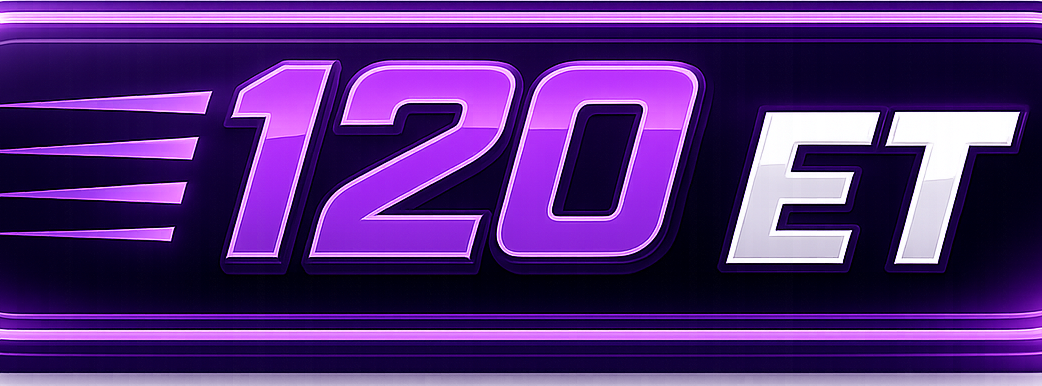
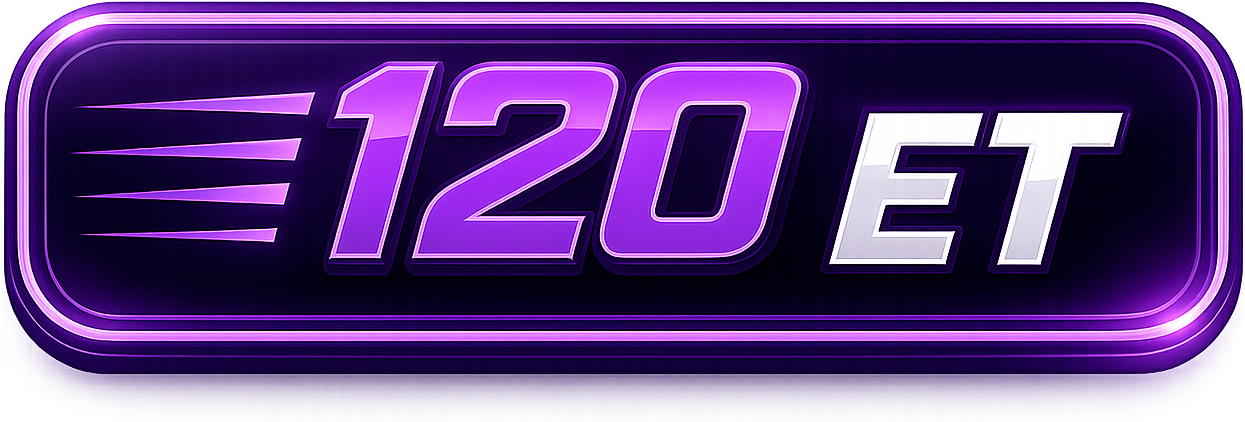
fix: restore and trim PEEK/ET120 images, adjust container sizes to match button height

diff --git a/app/(app)/shop/page.tsx b/app/(app)/shop/page.tsx
@@ -13,8 +13,8 @@ const SHOP_ITEMS = [
   { id: 'split', name: 'ספליט', description: 'לשימוש לפני המשחק – ניחוש 2 תוצאות', img: '/btn-split.png', stockKey: 'splitStock' as const, comingSoon: false, cost: 3 },
   { id: 'allin', name: 'ALL IN', description: 'לשימוש לפני המשחק – שים את הניקוד שלך בקופה משותפת. בעל הניקוד הגבוה ביותר זוכה בכל הקופה.', img: '/btn-allin.png', stockKey: 'allinStock' as const, comingSoon: false, cost: 1, imgClass: 'w-32 h-14', hidden: true },
   { id: 'double', name: 'דאבל', description: 'לשימוש לפני המשחק – שייך ל-2 משחקים שונים. אם שניהם מנוחשים נכון, תקבל בונוס נקודות על שניהם!', img: '/btn-double.png', stockKey: 'doubleStock' as const, comingSoon: true, cost: 3, imgClass: 'w-32 h-16', hidden: true },
-  { id: 'peek', name: 'PEEK', description: 'לשימוש לפני נעילת המשחק – ראה את ניחושי כל השחקנים ונשאר פתוח לניחוש 30 דקות נוספות', img: '/btn-peek.png', stockKey: 'peekStock' as const, comingSoon: false, cost: 2 },
-  { id: 'et120', name: '120 ET', description: 'לשימוש במהלך המשחק עד דקה 75. הופך את הניחוש שלך ל-120 במקום ל-90\'', img: '/btn-et120.png', stockKey: 'et120Stock' as const, comingSoon: false, cost: 2 },
+  { id: 'peek', name: 'PEEK', description: 'לשימוש לפני נעילת המשחק – ראה את ניחושי כל השחקנים ונשאר פתוח לניחוש 30 דקות נוספות', img: '/btn-peek.png', stockKey: 'peekStock' as const, comingSoon: false, cost: 2, imgClass: 'w-44 h-12' },
+  { id: 'et120', name: '120 ET', description: 'לשימוש במהלך המשחק עד דקה 75. הופך את הניחוש שלך ל-120 במקום ל-90\'', img: '/btn-et120.png', stockKey: 'et120Stock' as const, comingSoon: false, cost: 2, imgClass: 'w-36 h-12' },
 ]
 
 export default function ShopPage() {

diff --git a/components/match-card.tsx b/components/match-card.tsx
@@ -418,7 +418,7 @@ export function MatchCard({ match, prediction, memberPredictions = [], leagueId,
             )}
             {showPeek && (
               <button onClick={(e) => { e.preventDefault(); e.stopPropagation(); powerup.onPeek() }} className="transition-all active:scale-95">
-                <img src="/btn-peek.png" alt="PEEK" className="h-7 w-20 object-contain rounded-lg" style={{ mixBlendMode: 'lighten' }} loading="lazy" />
+                <img src="/btn-peek.png" alt="PEEK" className="h-7 w-28 object-contain rounded-lg" style={{ mixBlendMode: 'lighten' }} loading="lazy" />
               </button>
             )}
             {showX3 && (
@@ -506,7 +506,7 @@ export function MatchCard({ match, prediction, memberPredictions = [], leagueId,
           )}
           {showEt120 && (
             <button onClick={(e) => { e.preventDefault(); e.stopPropagation(); powerup.onEt120() }} className="transition-all active:scale-95">
-              <img src="/btn-et120.png" alt="120 ET" className="h-7 w-20 object-contain rounded-lg" style={{ mixBlendMode: 'lighten' }} loading="lazy" />
+              <img src="/btn-et120.png" alt="120 ET" className="h-7 w-24 object-contain rounded-lg" style={{ mixBlendMode: 'lighten' }} loading="lazy" />
             </button>
           )}
         </div>